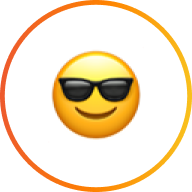
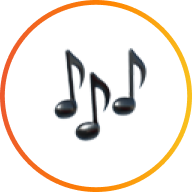
질문 바꿈

Changed region(s): [[0.25, 0.25, 0.7812, 0.75]]

diff --git a/src/components/Web/SurveyPage/SurveyFirst.js b/src/components/Web/SurveyPage/SurveyFirst.js
@@ -180,13 +180,13 @@ function SurveyFirst() {
 
 
       if (selectedEmoji === 'emoji1') {
-        question = '나의 이미지에 어울리는 컬러는?';
-        comment = '나의 성격과 떠오르는 이미지를 연관지어보세요!';
+        question = '내가 가지고 있는 강점은?';
+        comment = '내가 빛나보였던 순간을 떠올려보세요!';
         emoji = emoji1;
 
       } else if (selectedEmoji === 'emoji2') {
-        question = '나에게 어울릴 것 같은 직업은?';
-        comment = '나의 성향과 장점을 생각해보세요!';
+        question = '내가 보완하면 좋을 약점은?';
+        comment = '나의 성장에 도움이 될만한 점을 적어보세요!';
         emoji = emoji2;
         setSelectedEmoji("emoji2");
       } else if (selectedEmoji === 'emoji3') {
@@ -195,8 +195,8 @@ function SurveyFirst() {
         emoji = emoji3;
         setSelectedEmoji("emoji3");
       } else if (selectedEmoji=== 'emoji4') {
-        question = '내 이미지가 떠오르는 브랜드는?';
-        comment = '나를 생각하면 떠오르는 키워드를 생각해보세요!';
+        question = '나를 생각하면 떠오르는 노래는?';
+        comment = '나와 관련된 키워드와 이미지를 연관지어보세요!';
         emoji = emoji4;
         setSelectedEmoji("emoji4");
       }
